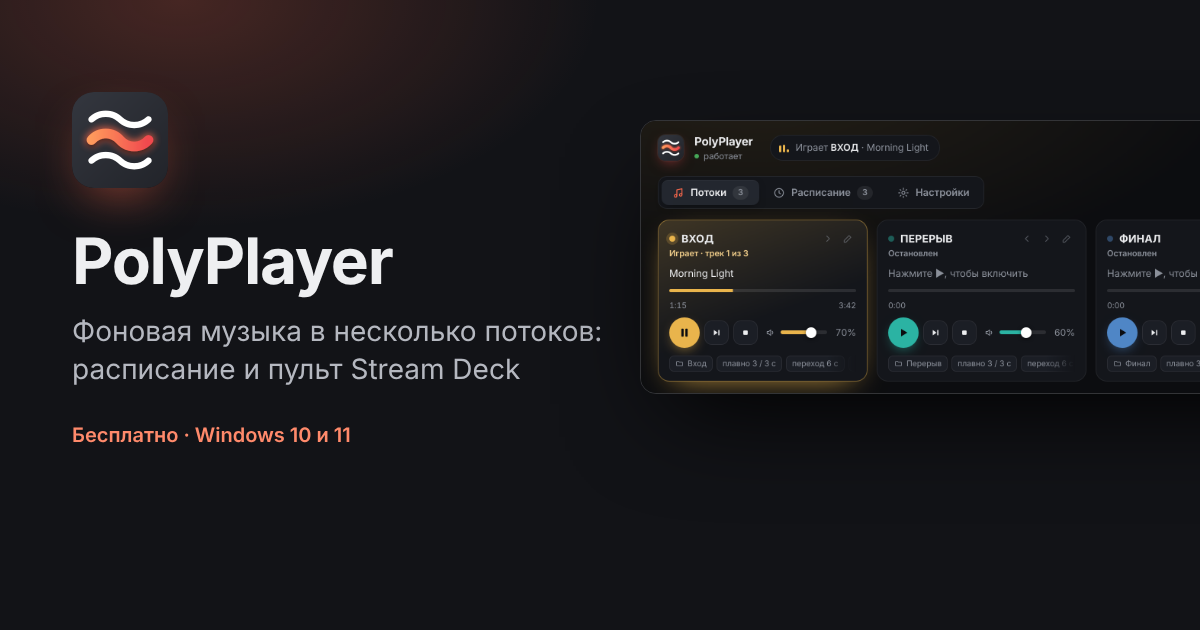
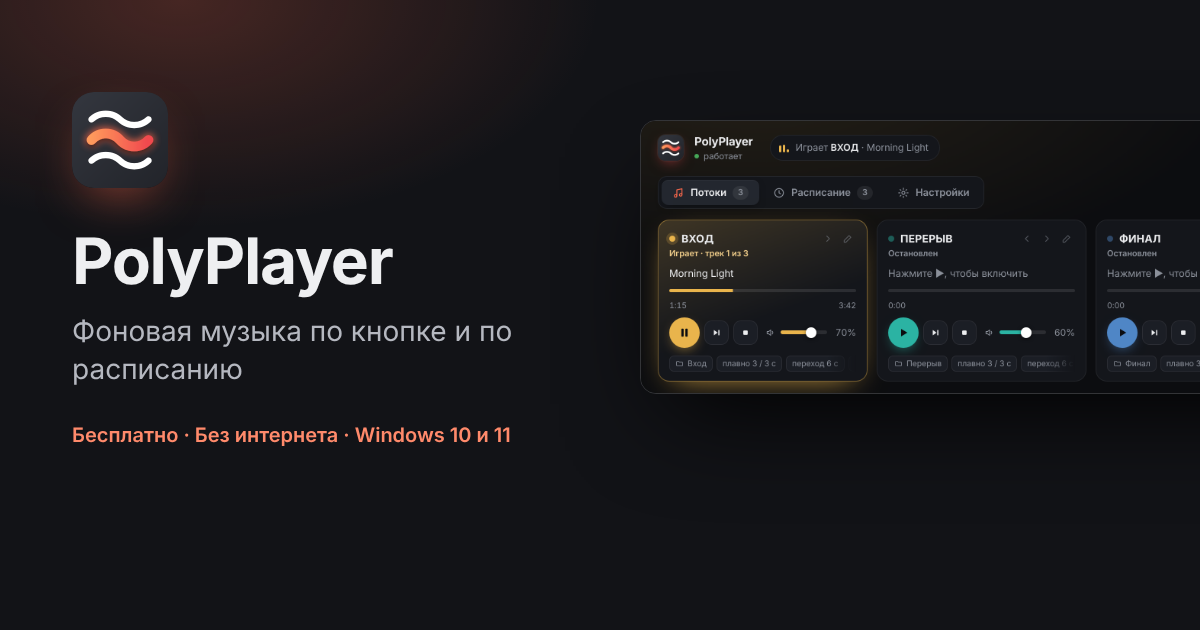
Страница скачивания: новые тексты, раздел про Stream Deck, меньше лишних деталей; README и справка в том же духе
Claude-Session: https://claude.ai/code/session_01WNY9TUvgRUgXt14yswfnxt

Changed region(s): [[0.1542, 0.6635, 0.4317, 0.7238], [0.2467, 0.5127, 0.4933, 0.5429], [0.185, 0.573, 0.4317, 0.6032]]

diff --git a/docs/index.html b/docs/index.html
@@ -4,10 +4,10 @@
 <meta charset="utf-8">
 <meta name="viewport" content="width=device-width, initial-scale=1">
 <title>PolyPlayer — фоновая музыка по расписанию и с пульта Stream Deck</title>
-<meta name="description" content="PolyPlayer ведёт фоновую музыку на мероприятиях: несколько плейлистов, плавные переходы, расписание и управление с пульта Elgato Stream Deck. Бесплатно, для Windows.">
+<meta name="description" content="Бесплатная программа для Windows: сколько угодно музыкальных потоков из своих папок, плавные переходы, расписание и управление с пульта Stream Deck. Работает без интернета.">
 <meta property="og:type" content="website">
-<meta property="og:title" content="PolyPlayer — фоновая музыка, которая управляется сама">
-<meta property="og:description" content="Несколько плейлистов, плавные переходы, расписание и пульт Stream Deck. Бесплатно, для Windows.">
+<meta property="og:title" content="PolyPlayer — фоновая музыка по кнопке и по расписанию">
+<meta property="og:description" content="Сколько угодно музыкальных потоков, плавные переходы, расписание и пульт Stream Deck. Бесплатно и без интернета.">
 <meta property="og:image" content="https://polyplayer-app.github.io/polyplayer/img/og.png">
 <meta name="twitter:card" content="summary_large_image">
 <link rel="icon" type="image/png" href="favicon.png">
@@ -138,22 +138,38 @@ footer a:hover { color: var(--tx); }
   .deck { position: static; margin: 16px auto 0; width: max-content; }
   section { padding-top: 72px; }
 }
+
+/* четыре возможности, два правила */
+.features.four { grid-template-columns: repeat(4, 1fr); }
+.trio.two { grid-template-columns: repeat(2, 1fr); max-width: 900px; }
+/* Stream Deck */
+.sd-intro { color: #C9CBD1; font-size: 16px; margin: 0 0 18px; }
+.sd-intro b { color: var(--tx); }
+.sd-note { color: var(--mu); font-size: 14.5px; margin: 18px 0 0; }
+.sd-device { justify-self: center; text-align: center; }
+.sd-body { display: grid; grid-template-columns: repeat(5, 64px); gap: 10px; padding: 18px; border-radius: 22px; background: linear-gradient(180deg, #1C1D21, #0D0E10); border: 1px solid var(--line2); box-shadow: 0 40px 80px -30px #000, inset 0 1px 0 rgba(255,255,255,.06); }
+.sd-body img, .sd-body span { width: 64px; height: 64px; border-radius: 10px; display: block; }
+.sd-body span { background: #08090A; box-shadow: inset 0 0 0 1px rgba(255,255,255,.05); }
+.sd-stand { width: 46%; height: 16px; margin: 0 auto; background: linear-gradient(180deg, #121316, #08090A); border-radius: 0 0 12px 12px; border: 1px solid var(--line); border-top: 0; }
+.sd-cap { color: var(--mu2); font-size: 13px; margin: 14px 0 0; }
+@media (max-width: 1000px) { .features.four { grid-template-columns: repeat(2, 1fr); } }
+@media (max-width: 560px) { .features.four, .trio.two { grid-template-columns: 1fr; } .sd-body { grid-template-columns: repeat(5, 48px); gap: 7px; padding: 12px; } .sd-body img, .sd-body span { width: 48px; height: 48px; border-radius: 8px; } }
 </style>
 </head>
 <body>
 <nav>
   <div class="wrap">
     <a class="brand" href="#"><img src="icon.png" alt="">PolyPlayer</a>
-    <div class="links"><a href="#features">Возможности</a><a href="#streamdeck">Stream Deck</a><a href="#how">Как начать</a><a href="#faq">Вопросы</a></div>
+    <div class="links"><a href="#features">Возможности</a><a href="#streamdeck">Stream Deck</a><a href="#how">Как начать</a><a href="#faq">Вопросы</a></div>
     <a class="btn btn-acc" href="https://github.com/polyplayer-app/polyplayer/releases/latest/download/PolyPlayer-Setup.exe">Скачать</a>
   </div>
 </nav>
 
 <header class="hero">
   <div class="wrap">
-    <div class="badge"><i></i>Бесплатно · Windows 10 и 11 · открытый код</div>
-    <h1>Фоновая музыка, которая <em>управляется сама</em></h1>
-    <p class="lead">Несколько плейлистов, плавные переходы и расписание. PolyPlayer сам включает нужную музыку вовремя, а вмешаться можно одной кнопкой на пульте Stream Deck.</p>
+    <div class="badge"><i></i>Бесплатно · Работает без интернета · Windows 10 и 11</div>
+    <h1>Фоновая музыка <em>по кнопке и по расписанию</em></h1>
+    <p class="lead">Создайте сколько угодно музыкальных потоков из своих папок и включайте их одной кнопкой — в программе, с пульта Stream Deck или автоматически по расписанию. Разобраться сможет любой, даже без технического опыта.</p>
     <div class="cta">
       <a class="btn btn-acc" href="https://github.com/polyplayer-app/polyplayer/releases/latest/download/PolyPlayer-Setup.exe">
         <svg viewBox="0 0 24 24" fill="none" stroke="currentColor" stroke-width="2.4" stroke-linecap="round" stroke-linejoin="round"><path d="M12 4v11m0 0l-5-5m5 5l5-5M5 20h14"/></svg>
@@ -175,13 +191,13 @@ footer a:hover { color: var(--tx); }
 
 <section>
   <div class="wrap">
-    <div class="kicker">Зачем</div>
-    <h2>Музыка звучит вовремя — даже когда у компьютера никого нет</h2>
-    <p class="sub">Перед началом, в перерыве, в конце. Обычно за этим следит человек у ноутбука. PolyPlayer снимает с него эту задачу.</p>
+    <div class="kicker">Для чего</div>
+    <h2>Своя музыка для каждого момента</h2>
+    <p class="sub">Перед началом звучит одно, в перерыве — другое, в конце — третье. PolyPlayer переключает музыку плавно: без резких обрывов и неловкой тишины.</p>
     <div class="problem">
-      <div class="pcard"><div class="t">До начала</div><b>Встречаем гостей</b><p>В 9:40 тихо включается спокойный плейлист, а к 9:55 сам плавно затихает — можно начинать.</p></div>
-      <div class="pcard"><div class="t">Перерыв</div><b>Одна кнопка</b><p>Нажали на пульте — музыка мягко нарастает. Нажали ещё раз — пауза, без резких обрывов.</p></div>
-      <div class="pcard"><div class="t">Финал</div><b>Свой плейлист на выход</b><p>Включили «Финал» — текущая музыка сама уступает место, переход плавный.</p></div>
+      <div class="pcard"><div class="t">По расписанию</div><b>Включается вовремя</b><p>Например, по будням в 9:40 начинает играть спокойная музыка, а к 9:58 она сама плавно затихает.</p></div>
+      <div class="pcard"><div class="t">По кнопке</div><b>Плавный старт и пауза</b><p>Нажали — музыка постепенно набирает громкость. Нажали ещё раз — мягко затихает и встаёт на паузу.</p></div>
+      <div class="pcard"><div class="t">Смена настроения</div><b>Один поток сменяет другой</b><p>Включили другой поток — тот, что играл, сам уступит ему место. Переход получается незаметным.</p></div>
     </div>
   </div>
 </section>
@@ -189,15 +205,13 @@ footer a:hover { color: var(--tx); }
 <section id="features">
   <div class="wrap">
     <div class="kicker">Возможности</div>
-    <h2>Всё, что нужно для фоновой музыки, и ничего лишнего</h2>
-    <p class="sub">Простой интерфейс, с которым справится человек без технического опыта, — и аккуратная работа со звуком под капотом.</p>
-    <div class="features">
-      <div class="f"><div class="ic"><svg viewBox="0 0 24 24" fill="none" stroke="currentColor" stroke-width="2" stroke-linecap="round"><path d="M3 8c3-3 6 3 9 0s6 3 9 0M3 16c3-3 6 3 9 0s6 3 9 0"/></svg></div><b>Несколько потоков</b><p>У каждого потока своя папка с музыкой, громкость и цвет. Включайте по одному или смешивайте.</p></div>
-      <div class="f"><div class="ic"><svg viewBox="0 0 24 24" fill="none" stroke="currentColor" stroke-width="2" stroke-linecap="round"><path d="M4 18c5 0 5-12 10-12h6M4 6c5 0 5 12 10 12h6"/></svg></div><b>Плавные переходы</b><p>Нарастание, затухание и перетекание треков друг в друга — настраивается в секундах.</p></div>
-      <div class="f"><div class="ic"><svg viewBox="0 0 24 24" fill="none" stroke="currentColor" stroke-width="2" stroke-linecap="round"><circle cx="12" cy="13" r="8"/><path d="M12 9v4l3 2M9 2h6"/></svg></div><b>Расписание</b><p>По дням недели и времени: включить, выключить или остановить всю музыку к началу.</p></div>
-      <div class="f"><div class="ic"><svg viewBox="0 0 24 24" fill="none" stroke="currentColor" stroke-width="2" stroke-linecap="round"><rect x="3" y="5" width="18" height="14" rx="3"/><path d="M8 10h.01M12 10h.01M16 10h.01M8 14h.01M12 14h.01M16 14h.01"/></svg></div><b>Пульт Stream Deck</b><p>Каждый поток — на своей кнопке с названием и цветом. Плагин ставится вместе с программой.</p></div>
-      <div class="f"><div class="ic"><svg viewBox="0 0 24 24" fill="none" stroke="currentColor" stroke-width="2" stroke-linecap="round"><path d="M12 3v9M6.3 7.3a8 8 0 1 0 11.4 0"/></svg></div><b>Работает в фоне</b><p>Запускается вместе с Windows и прячется к часам. Закрыли окно — музыка продолжает играть.</p></div>
-      <div class="f"><div class="ic"><svg viewBox="0 0 24 24" fill="none" stroke="currentColor" stroke-width="2" stroke-linecap="round"><path d="M20 12a8 8 0 1 1-2.3-5.7M20 4v5h-5"/></svg></div><b>Обновляется сам</b><p>Сообщает о новой версии при запуске и никогда не перезапускается, пока играет музыка.</p></div>
+    <h2>Разберётся любой</h2>
+    <p class="sub">Никаких сложных настроек: выбрали папку с музыкой, дали потоку название — и он готов к работе. Всё остальное программа берёт на себя.</p>
+    <div class="features four">
+      <div class="f"><div class="ic"><svg viewBox="0 0 24 24" fill="none" stroke="currentColor" stroke-width="2" stroke-linecap="round"><path d="M3 7c3-3 6 3 9 0s6 3 9 0M3 12c3-3 6 3 9 0s6 3 9 0M3 17c3-3 6 3 9 0s6 3 9 0"/></svg></div><b>Сколько угодно потоков</b><p>Каждый поток — отдельный плеер со своей папкой, громкостью и цветом.</p></div>
+      <div class="f"><div class="ic"><svg viewBox="0 0 24 24" fill="none" stroke="currentColor" stroke-width="2" stroke-linecap="round"><path d="M4 18c5 0 5-12 10-12h6M4 6c5 0 5 12 10 12h6"/></svg></div><b>Плавные переходы</b><p>Музыка нарастает и затихает постепенно, треки перетекают друг в друга.</p></div>
+      <div class="f"><div class="ic"><svg viewBox="0 0 24 24" fill="none" stroke="currentColor" stroke-width="2" stroke-linecap="round"><circle cx="12" cy="13" r="8"/><path d="M12 9v4l3 2M9 2h6"/></svg></div><b>Расписание</b><p>Потоки включаются и выключаются сами — по дням недели и в нужное время.</p></div>
+      <div class="f"><div class="ic"><svg viewBox="0 0 24 24" fill="none" stroke="currentColor" stroke-width="2" stroke-linecap="round"><path d="M2 8.5a15 15 0 0 1 20 0M5.5 12a10 10 0 0 1 13 0M9 15.5a5 5 0 0 1 6 0M12 19h.01M3 3l18 18"/></svg></div><b>Без интернета</b><p>Музыка играет прямо с компьютера: без подписок, рекламы и зависимости от сети.</p></div>
     </div>
   </div>
 </section>
@@ -205,11 +219,10 @@ footer a:hover { color: var(--tx); }
 <section>
   <div class="wrap">
     <div class="kicker">Расписание</div>
-    <h2>Настроили один раз — работает каждую неделю</h2>
-    <div class="trio">
-      <p><b>«С — до».</b> Поток включится в нужное время и сам плавно затихнет к концу.</p>
-      <p><b>«Все потоки».</b> К началу плавно остановится любая музыка, какая бы ни играла.</p>
-      <p><b>Ручное управление.</b> Включили поток сами — расписание не будет мешать.</p>
+    <h2>Настроили один раз — и забыли</h2>
+    <div class="trio two">
+      <p><b>Правило «с — до».</b> Поток включится в назначенное время и сам плавно затихнет к концу.</p>
+      <p><b>Правило «Все потоки».</b> Выключает всю музыку, которая играет в этот момент. Удобно, когда к определённому часу должно стать тихо.</p>
     </div>
     <div class="frame wide"><img src="img/app-schedule.png" alt="Расписание PolyPlayer: три правила на будни" width="1160" height="227"></div>
   </div>
@@ -218,22 +231,25 @@ footer a:hover { color: var(--tx); }
 <section id="streamdeck">
   <div class="wrap split">
     <div>
-      <div class="kicker">Stream Deck</div>
-      <h2>Управление с пульта, не подходя к компьютеру</h2>
+      <div class="kicker">Интеграция со Stream Deck</div>
+      <h2>Каждый поток — на своей кнопке</h2>
+      <p class="sd-intro"><b>Stream Deck</b> — это пульт компании Elgato с кнопками-экранчиками. Его подключают к компьютеру по USB, а каждой кнопке назначают своё действие. Такими пультами пользуются стримеры, звукорежиссёры и ведущие, когда всё нужно делать быстро и без мыши.</p>
       <ul>
-        <li>Кнопка горит цветом потока, когда он играет, и показывает громкость.</li>
-        <li>Нажать — пуск или пауза, удерживать — стоп. На кнопке видно, что произойдёт.</li>
-        <li>«Стоп всё», «Следующий трек» и кнопка самой программы.</li>
-        <li>На Stream Deck + — громкость крутилкой.</li>
+        <li>На кнопке видно название потока, его цвет и громкость. Пока поток играет, кнопка светится.</li>
+        <li>Нажатие включает поток или ставит на паузу, удержание — останавливает.</li>
+        <li>Есть отдельные кнопки «Стоп всё» и «Следующий трек».</li>
+        <li>Плагин для пульта устанавливается вместе с PolyPlayer, а если Stream Deck появился позже, — из настроек программы.</li>
       </ul>
+      <p class="sd-note">Stream Deck не обязателен: всё то же самое можно делать в окне программы.</p>
     </div>
-    <div class="keys">
-      <figure><img src="img/key-playing.png" alt=""><figcaption>Поток играет</figcaption></figure>
-      <figure><img src="img/key-stopped.png" alt=""><figcaption>Поток на паузе</figcaption></figure>
-      <figure><img src="img/key-hold-stop.png" alt=""><figcaption>Удержание — стоп</figcaption></figure>
-      <figure><img src="img/key-stopall.png" alt=""><figcaption>Стоп всё</figcaption></figure>
-      <figure><img src="img/key-next.png" alt=""><figcaption>Следующий трек</figcaption></figure>
-      <figure><img src="img/key-panel.png" alt=""><figcaption>Окно программы</figcaption></figure>
+    <div class="sd-device" aria-label="Пульт с кнопками PolyPlayer">
+      <div class="sd-body">
+        <img src="img/key-playing.png" alt="Поток «Вход» играет"><img src="img/key-stopped.png" alt="Поток «Перерыв»"><img src="img/key-finale.png" alt="Поток «Финал»"><img src="img/key-stopall.png" alt="Стоп всё"><img src="img/key-next.png" alt="Следующий трек">
+        <span></span><span></span><span></span><span></span><img src="img/key-panel.png" alt="Кнопка PolyPlayer">
+        <span></span><span></span><span></span><span></span><span></span>
+      </div>
+      <div class="sd-stand"></div>
+      <p class="sd-cap">Так кнопки PolyPlayer выглядят на пульте с 15 кнопками</p>
     </div>
   </div>
 </section>
@@ -244,18 +260,18 @@ footer a:hover { color: var(--tx); }
     <h2>Три шага до первой музыки</h2>
     <p class="sub">Установка занимает минуту, права администратора не нужны.</p>
     <div class="steps">
-      <div class="step"><b>Установите</b><p>Скачайте PolyPlayer и запустите установщик. Если есть Stream Deck, плагин предложится сам.</p></div>
-      <div class="step"><b>Создайте потоки</b><p>Укажите для каждого потока папку с музыкой и дайте ему название — оно появится на кнопке пульта.</p></div>
-      <div class="step"><b>Включайте или запланируйте</b><p>Запускайте кнопкой в программе или на пульте, а регулярное — поставьте в расписание.</p></div>
+      <div class="step"><b>Установите</b><p>Скачайте PolyPlayer и запустите установщик.</p></div>
+      <div class="step"><b>Создайте потоки</b><p>Для каждого потока выберите папку с музыкой и дайте ему понятное название.</p></div>
+      <div class="step"><b>Включайте</b><p>Кнопкой в программе, с пульта Stream Deck или автоматически — по расписанию.</p></div>
     </div>
   </div>
 </section>
 
 <section>
   <div class="wrap">
-    <div class="kicker">Для кого</div>
-    <h2>Везде, где музыка должна звучать фоном</h2>
-    <div class="who"><span>Общины и клубы</span><span>Конференции и мероприятия</span><span>Кафе и рестораны</span><span>Магазины и шоурумы</span><span>Спортзалы и студии</span><span>Школы и актовые залы</span><span>Стримы и подкасты</span></div>
+    <div class="kicker">Где пригодится</div>
+    <h2>Везде, где музыка звучит фоном</h2>
+    <div class="who"><span>Конференции и мероприятия</span><span>Общины и клубы</span><span>Кафе и рестораны</span><span>Магазины и шоурумы</span><span>Спортзалы и студии</span><span>Школы и актовые залы</span><span>Стримы и подкасты</span></div>
   </div>
 </section>
 
@@ -264,27 +280,27 @@ footer a:hover { color: var(--tx); }
     <div class="kicker">Вопросы</div>
     <h2>Частые вопросы</h2>
     <div class="faq">
-      <details><summary>Это бесплатно?</summary><p>Да. PolyPlayer бесплатный, с открытым исходным кодом под лицензией GPL v3.</p></details>
-      <details><summary>Обязательно нужен Stream Deck?</summary><p>Нет. Всем можно управлять мышью в окне программы. Stream Deck просто делает это удобнее: музыку можно включать, не подходя к компьютеру.</p></details>
-      <details><summary>Какие файлы подходят?</summary><p>MP3, M4A, WAV, FLAC, OGG — обычные файлы в папке на компьютере, подпапки тоже учитываются. Музыку из стриминговых сервисов PolyPlayer не играет.</p></details>
-      <details><summary>Нужен ли интернет?</summary><p>Нет. Музыка играет с компьютера. Интернет нужен только для проверки обновлений.</p></details>
-      <details><summary>Почему Windows предупреждает при установке?</summary><p>У программы пока нет платной цифровой подписи, поэтому Windows показывает «Windows защитил ваш компьютер». Нажмите «Подробнее» → «Выполнить в любом случае». Исходный код открыт — его можно проверить на GitHub.</p></details>
-      <details><summary>Stream Deck установили позже PolyPlayer — что делать?</summary><p>В PolyPlayer откройте «Настройки» → «Установить плагин». Или скачайте <a href="https://github.com/polyplayer-app/polyplayer/releases/latest/download/PolyPlayer.streamDeckPlugin">плагин отдельно</a> и откройте его двойным щелчком.</p></details>
+      <details><summary>Это действительно бесплатно?</summary><p>Да, полностью. PolyPlayer — программа с открытым исходным кодом (лицензия GPL v3), без рекламы и платных функций.</p></details>
+      <details><summary>Нужен ли интернет?</summary><p>Нет. Музыка играет из папок на вашем компьютере. Интернет нужен только для того, чтобы программа узнала о выходе новой версии.</p></details>
+      <details><summary>Обязательно ли покупать Stream Deck?</summary><p>Нет. Всем можно управлять в окне программы, а регулярные включения доверить расписанию. Пульт пригодится, если удобнее нажимать отдельные кнопки, чем искать нужное на экране.</p></details>
+      <details><summary>Какие файлы поддерживаются?</summary><p>MP3, M4A, WAV, FLAC и OGG. Музыку из стриминговых сервисов PolyPlayer не воспроизводит.</p></details>
+      <details><summary>При установке появилось окно «Windows защитил ваш компьютер». Это опасно?</summary><p>Нет. Так Windows реагирует на программы, у которых пока нет платной цифровой подписи разработчика. Нажмите «Подробнее», затем «Выполнить в любом случае». Исходный код PolyPlayer открыт, и его можно проверить на GitHub.</p></details>
+      <details><summary>Как обновлять программу?</summary><p>Ничего делать не нужно: при запуске PolyPlayer сам сообщает о новой версии и устанавливает её за пару минут. Потоки и расписание сохраняются.</p></details>
     </div>
   </div>
 </section>
 
 <div class="wrap">
   <div class="final">
-    <h2>Попробуйте PolyPlayer бесплатно</h2>
-    <p>Без регистрации и рекламы. Во время работы интернет не нужен.</p>
+    <h2>Попробуйте PolyPlayer</h2>
+    <p>Бесплатно, без регистрации и рекламы.</p>
     <a class="btn btn-acc" href="https://github.com/polyplayer-app/polyplayer/releases/latest/download/PolyPlayer-Setup.exe">
       <svg viewBox="0 0 24 24" fill="none" stroke="currentColor" stroke-width="2.4" stroke-linecap="round" stroke-linejoin="round"><path d="M12 4v11m0 0l-5-5m5 5l5-5M5 20h14"/></svg>
-      Скачать PolyPlayer
+      Скачать для Windows
     </a>
   </div>
   <footer>
-    <span>© PolyPlayer · открытый код, лицензия GPL v3</span>
+    <span>© PolyPlayer · открытый исходный код, лицензия GPL v3 · Stream Deck — товарный знак Elgato</span>
     <span><a href="https://github.com/polyplayer-app/polyplayer">GitHub</a> · <a href="https://github.com/polyplayer-app/polyplayer/releases">Все версии</a> · <a href="https://github.com/polyplayer-app/polyplayer/issues">Сообщить о проблеме</a></span>
   </footer>
 </div>

diff --git a/app/public/index.html b/app/public/index.html
@@ -322,7 +322,7 @@ dialog::backdrop { background: rgba(5,6,8,.65); backdrop-filter: blur(3px); }
         <img class="shot" src="/help/new-card.png" width="250" alt=""></li>
       <li>Дайте потоку название — оно будет написано на кнопке пульта. Справа от поля видно, как название разместится на кнопке.
         <img class="shot" src="/help/name.png" width="550" alt=""></li>
-      <li>Нажмите <b>«Выбрать…»</b> и укажите папку с музыкой: подойдут файлы mp3, m4a, wav, flac, ogg, подпапки тоже учитываются. Затем нажмите <b>«Сохранить»</b>.
+      <li>Нажмите <b>«Выбрать…»</b> и укажите папку с музыкой: подойдут файлы mp3, m4a, wav, flac и ogg. Затем нажмите <b>«Сохранить»</b>.
         <img class="shot" src="/help/folder.png" width="550" alt=""></li>
     </ol>
     <details class="more">

diff --git a/README.md b/README.md
@@ -1,12 +1,13 @@
 # PolyPlayer
 
-Фоновая музыка в несколько потоков для Windows с расписанием и управлением с пульта Stream Deck.
+Бесплатная программа для Windows: фоновая музыка по кнопке и по расписанию. Создайте сколько угодно музыкальных потоков из своих папок и включайте их в программе, с пульта Stream Deck или автоматически. Работает без интернета, разобраться сможет любой.
 
-- несколько потоков (папок с музыкой), плавное нарастание и затухание, переходы между треками;
-- расписание: включить и выключить поток в заданное время, «стоп всё» к началу;
-- управление с пульта Elgato Stream Deck (плагин в каждом выпуске);
-- работает в значке возле часов, сам запускается вместе с Windows;
-- при запуске сам проверяет обновления и предлагает установить новую версию.
+- сколько угодно потоков: у каждого своя папка с музыкой, громкость и цвет;
+- плавное нарастание и затухание, треки перетекают друг в друга;
+- расписание по дням недели и времени, правило «Все потоки» выключает любую музыку в нужный момент;
+- управление с пульта Elgato Stream Deck: каждый поток на своей кнопке (плагин ставится вместе с программой);
+- запускается вместе с Windows и работает в фоне, даже когда окно закрыто;
+- сам сообщает о новых версиях и обновляется за пару минут.
 
 ## Установка
 
